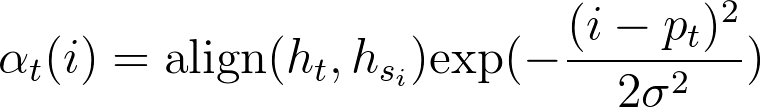
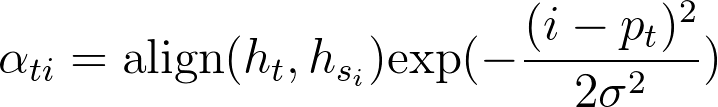
update attention readme

diff --git a/neural_network/attention/README.md b/neural_network/attention/README.md
@@ -19,7 +19,7 @@ However, global and local attention differ in how the context vector $$c_t$$ is 
 In global attention, we want to compute a variable-length alignment vector  $$\alpha_t$$, whose length equals the number of time steps on the source side (encoder), based on the encoder hidden states $$h_{s_i}$$.
 <!---
 \begin{align*}
-\alpha_t(i) &= \text{align}(h_t, h_{s_i}) \\
+\alpha_{ti} &= \text{align}(h_t, h_{s_i}) \\
 &= \frac{\text{exp}(\text{score}(h_t, h_{s_i}))))}{\sum_{s'} \text{exp}(\text{score}(h_t, h_{s'})))}
 \end{align*}
 -->
@@ -29,7 +29,7 @@ In global attention, we want to compute a variable-length alignment vector  $$\a
 such that
 <!---
 \begin{align*}
-c_t = \sum_i \alpha_{t}(i) h_{s_i}
+c_t = \sum_i \alpha_{ti} h_{s_i}
 \end{align*}
 -->
 <p align="center">
@@ -74,7 +74,7 @@ where  S is the source sentence length and $$p_t \in [0, S]$$ as a result of sig
 Besides, we can further favor alignment point near $$p_t$$ by a Gaussian distribution centered around $$p_t$$.
 <!---
 $$
-\alpha_t(i) = \text{align}(h_t, h_{s_i}) \text{exp}(- \frac{(i - p_t)^2}{2 \sigma^2})
+\alpha_{ti} = \text{align}(h_t, h_{s_i}) \text{exp}(- \frac{(i - p_t)^2}{2 \sigma^2})
 $$
 -->
 <p align="center">
